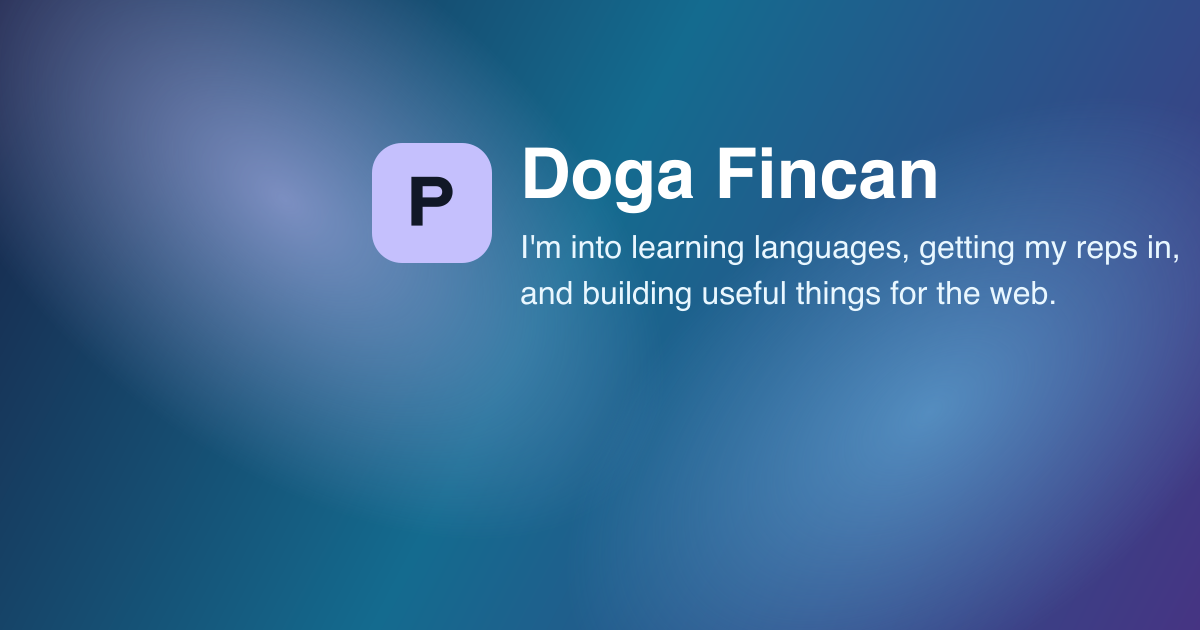
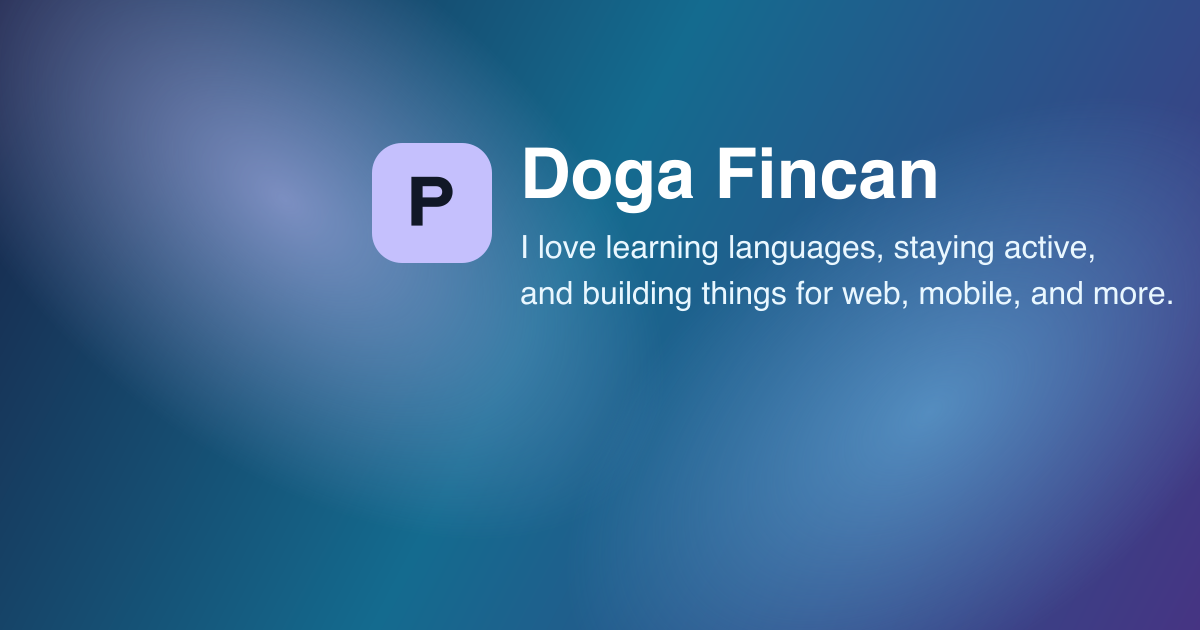
Refine portfolio subtitle wording

Changed region(s): [[0.4317, 0.3619, 0.9867, 0.4222], [0.5858, 0.4524, 0.9867, 0.4825]]

diff --git a/src/routes/-index.test.ts b/src/routes/-index.test.ts
@@ -30,16 +30,18 @@ describe("index route head", () => {
     expect(source).toContain('rel: "canonical"');
     expect(source).toContain("href: SITE_URL");
     expect(source).toContain(
-      "I'm into learning languages, getting my reps in, and building useful things for the web.",
+      "I love learning languages, staying active, and building things for the web, mobile, and whatever else sounds fun.",
     );
     expect(source).not.toContain(
       "Focused web utilities and product systems built with React, Cloudflare, and careful user-facing workflows.",
     );
+    expect(source).not.toContain("getting my reps in");
+    expect(source).not.toContain("building useful things for the web");
 
     expect(siteUrlMatch?.[1]).toBe("https://portfolio.dogafincan.workers.dev");
     expect(socialImageMatch?.[1]).toMatch(/^\/og-image\.png\?v=\d+$/);
     expect(new URL(`${siteUrlMatch?.[1]}${socialImageMatch?.[1]}`).href).toBe(
-      "https://portfolio.dogafincan.workers.dev/og-image.png?v=20260519",
+      "https://portfolio.dogafincan.workers.dev/og-image.png?v=20260520",
     );
     expect(source).not.toContain('const SOCIAL_IMAGE = "/og-image.png";');
 

diff --git a/src/routes/index.tsx b/src/routes/index.tsx
@@ -2,9 +2,9 @@ import { createFileRoute } from "@tanstack/react-router";
 
 const PAGE_TITLE = "Doga Fincan Portfolio";
 const PAGE_DESCRIPTION =
-  "I'm into learning languages, getting my reps in, and building useful things for the web.";
+  "I love learning languages, staying active, and building things for the web, mobile, and whatever else sounds fun.";
 const SITE_URL = "https://portfolio.dogafincan.workers.dev";
-const SOCIAL_IMAGE = `${SITE_URL}/og-image.png?v=20260519`;
+const SOCIAL_IMAGE = `${SITE_URL}/og-image.png?v=20260520`;
 
 export const Route = createFileRoute("/")({
   head: () => ({

diff --git a/src/components/portfolio-home.test.tsx b/src/components/portfolio-home.test.tsx
@@ -29,7 +29,7 @@ describe("PortfolioHome", () => {
       "max-w-[40rem] text-balance text-lg font-medium md:max-w-full",
     );
     expect(appSubtitle?.textContent).toBe(
-      "I'm into learning languages, getting my reps in, and building useful things for the web.",
+      "I love learning languages, staying active, and building things for the web, mobile, and whatever else sounds fun.",
     );
     expect(appLogo?.className).toBe("relative size-15 shrink-0 overflow-hidden");
     expect(appLogoImage?.getAttribute("src")).toBe("/app-logo-120.png");

diff --git a/src/components/portfolio-home.tsx b/src/components/portfolio-home.tsx
@@ -111,8 +111,8 @@ export function PortfolioHome() {
               Doga Fincan
             </h1>
             <p className="max-w-[40rem] text-balance text-lg font-medium md:max-w-full">
-              I'm into learning languages, getting my reps in, and building useful things for the
-              web.
+              I love learning languages, staying active, and building things for the web, mobile,
+              and whatever else sounds fun.
             </p>
           </div>
         </header>

diff --git a/DESIGN.md b/DESIGN.md
@@ -111,7 +111,8 @@ recognizably consistent unless the portfolio intentionally needs an exception.
   title, concise subtitle, centered text, and foreground text color by
   inheritance.
 - The header subtitle should feel informal and personal: language learning,
-  exercise, and building useful things are part of the positioning.
+  staying active, and building across web, mobile, and other surfaces are part
+  of the positioning.
 - The title class currently matches the sibling apps:
   `text-balance text-4xl leading-tight font-bold tracking-tight`.
 - The subtitle class currently matches the snapshot header width treatment:
